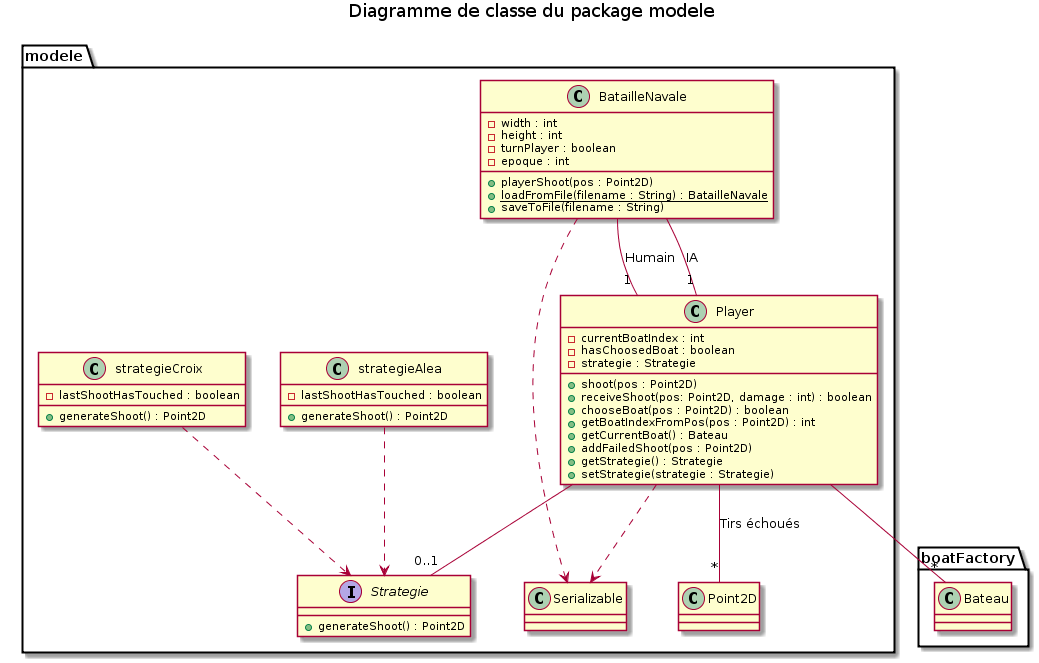
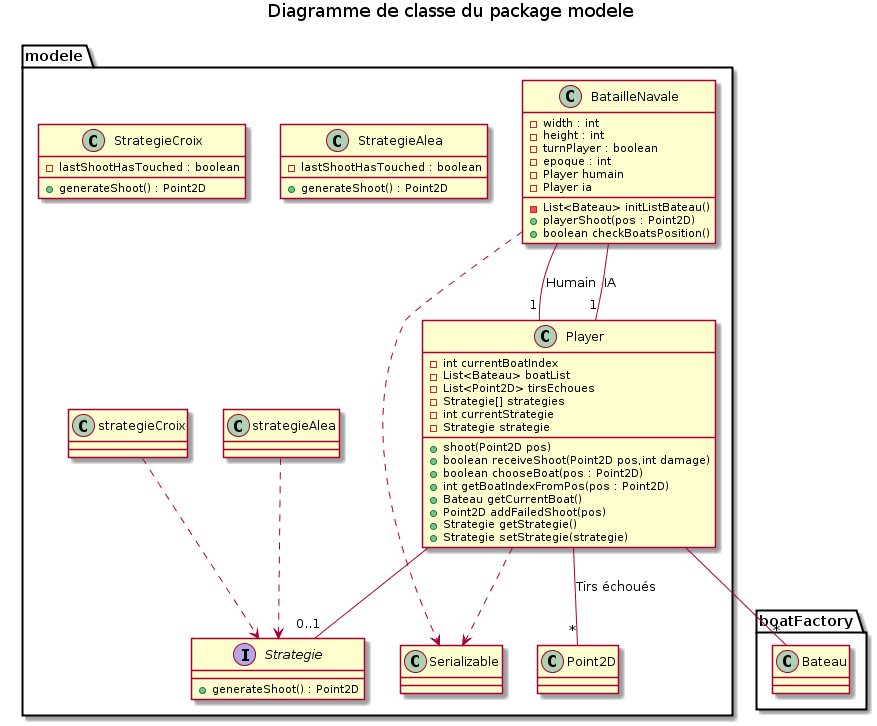
Diags

diff --git a/src/bataillenavale/modele/BatailleNavale.java b/src/bataillenavale/modele/BatailleNavale.java
@@ -12,8 +12,7 @@ public class BatailleNavale implements Serializable {
 
     public static final int WIDTH = 10;
     public static final int HEIGHT = 10;
-    public static final int XIX = 19;
-    public static final int XVIII = 18;
+
 
     private boolean turnPlayer;
     private String epoque;
@@ -23,7 +22,6 @@ public class BatailleNavale implements Serializable {
 
     public BatailleNavale(String epoque) {
         this.epoque = epoque;
-        ConcreteBateauFactory factory = AbstractBateauFactory.getFactoryByEpoque(epoque);
 
 
         humain = new Player(initListBateau());
@@ -94,14 +92,6 @@ public class BatailleNavale implements Serializable {
             turnPlayer = true;
         }
 
-
-    }
-
-    public BatailleNavale loadFromFile(String filename) {
-        return null;
-    }
-
-    public void saveToFile(String filename) {
 
     }
 

diff --git a/src/bataillenavale/game/Game.java b/src/bataillenavale/game/Game.java
@@ -198,12 +198,6 @@ public class Game implements bataillenavale.engine.Game {
 
     }
 
-    private void playerChooseBoat(Point2D pos) {
-
-    }
-
-    private void playerShoot(Point2D pos) {
-    }
 
     public GameState getGameState() {
         return gameState;

diff --git a/src/bataillenavale/engine/Game.java b/src/bataillenavale/engine/Game.java
@@ -17,7 +17,7 @@ public interface Game {
 	public void evolve(Cmd userCmd);
 
 	/**
-	 * @return true si et seulement si le jeu est fini
+	 * @return true si et seulement si le jeu est fini [Inutilisé]
 	 */
 	public boolean isFinished();
 

diff --git a/src/bataillenavale/boatFactory/abstractBoat/Bateau.java b/src/bataillenavale/boatFactory/abstractBoat/Bateau.java
@@ -8,9 +8,7 @@ import java.util.ArrayList;
 import java.util.List;
 import java.util.Objects;
 
-/**
- * Created by simon on 05/04/18.
- */
+
 public abstract class Bateau implements Serializable {
 
 
